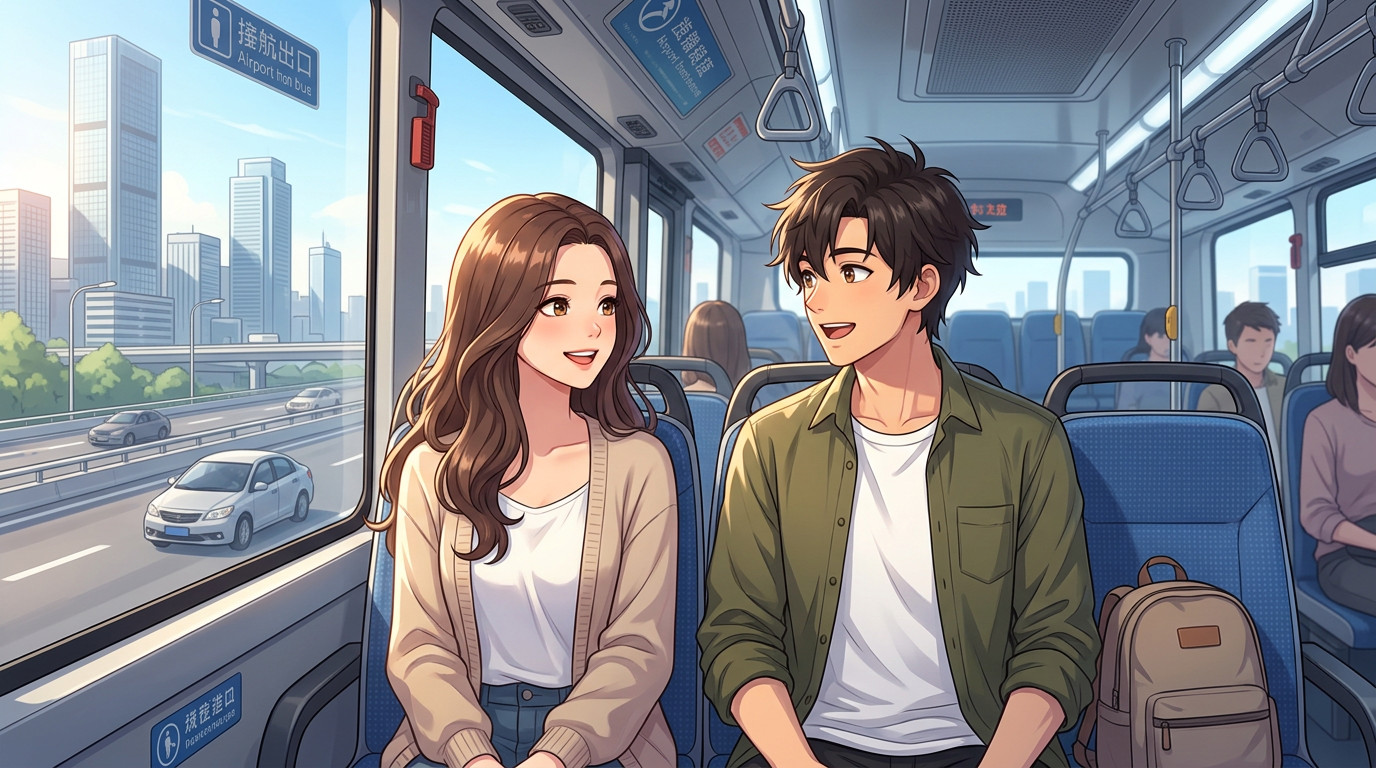
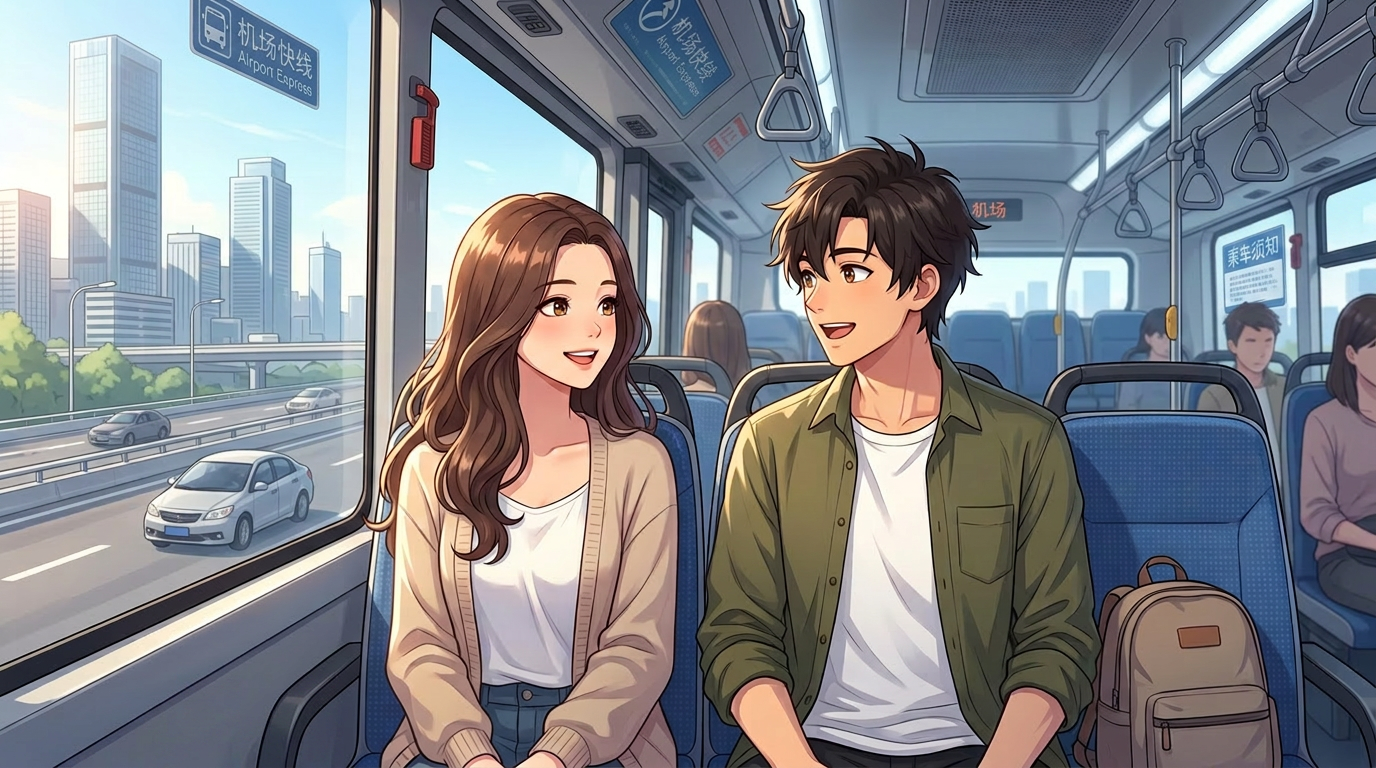
assets: replace lesson 2 bus CG images; add cache-bust param

diff --git a/public/index.html b/public/index.html
@@ -3382,8 +3382,8 @@
         id: "lesson-2",
         titleZh: "第二课：坐大巴", titleEn: "Lesson 2: On the Bus",
         newChars: [],
-        cgImage:   '/assets/cg/lesson2_bus.png',   // 公路空镜（图3）→ 故事CG + 全屏背景 + 卡片缩略图
-        cardImage: '/assets/cg/lesson2_bus_card.jpg', // 公路空镜切片 → 章节卡片缩略图
+        cgImage:   '/assets/cg/lesson2_bus.png?v=20260421',   // 公路空镜（图3）→ 故事CG + 全屏背景 + 卡片缩略图
+        cardImage: '/assets/cg/lesson2_bus_card.jpg?v=20260421', // 公路空镜切片 → 章节卡片缩略图
         cgText:  '窗外的风景在后退，而我在中国的生活，才刚刚启程。',
         cgTextEn: 'As the scenery fades behind us, my journey in China has only just begun.',
         coverScene: {
